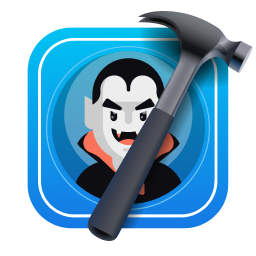
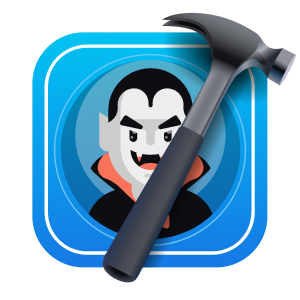
1.2.4

diff --git a/CHANGELOG.md b/CHANGELOG.md
@@ -2,6 +2,14 @@
 
 All notable changes to the Xcode Dracula Theme extension will be documented in this file.
 
+## [1.2.4] - 2025-02-27
+
+### Changed
+
+- Updated icon size
+- Updated `titleBar.inactiveForeground` color
+- Updated `titleBar.inactiveBackground` color
+
 ## [1.2.3] - 2025-02-27
 
 ### Changed
